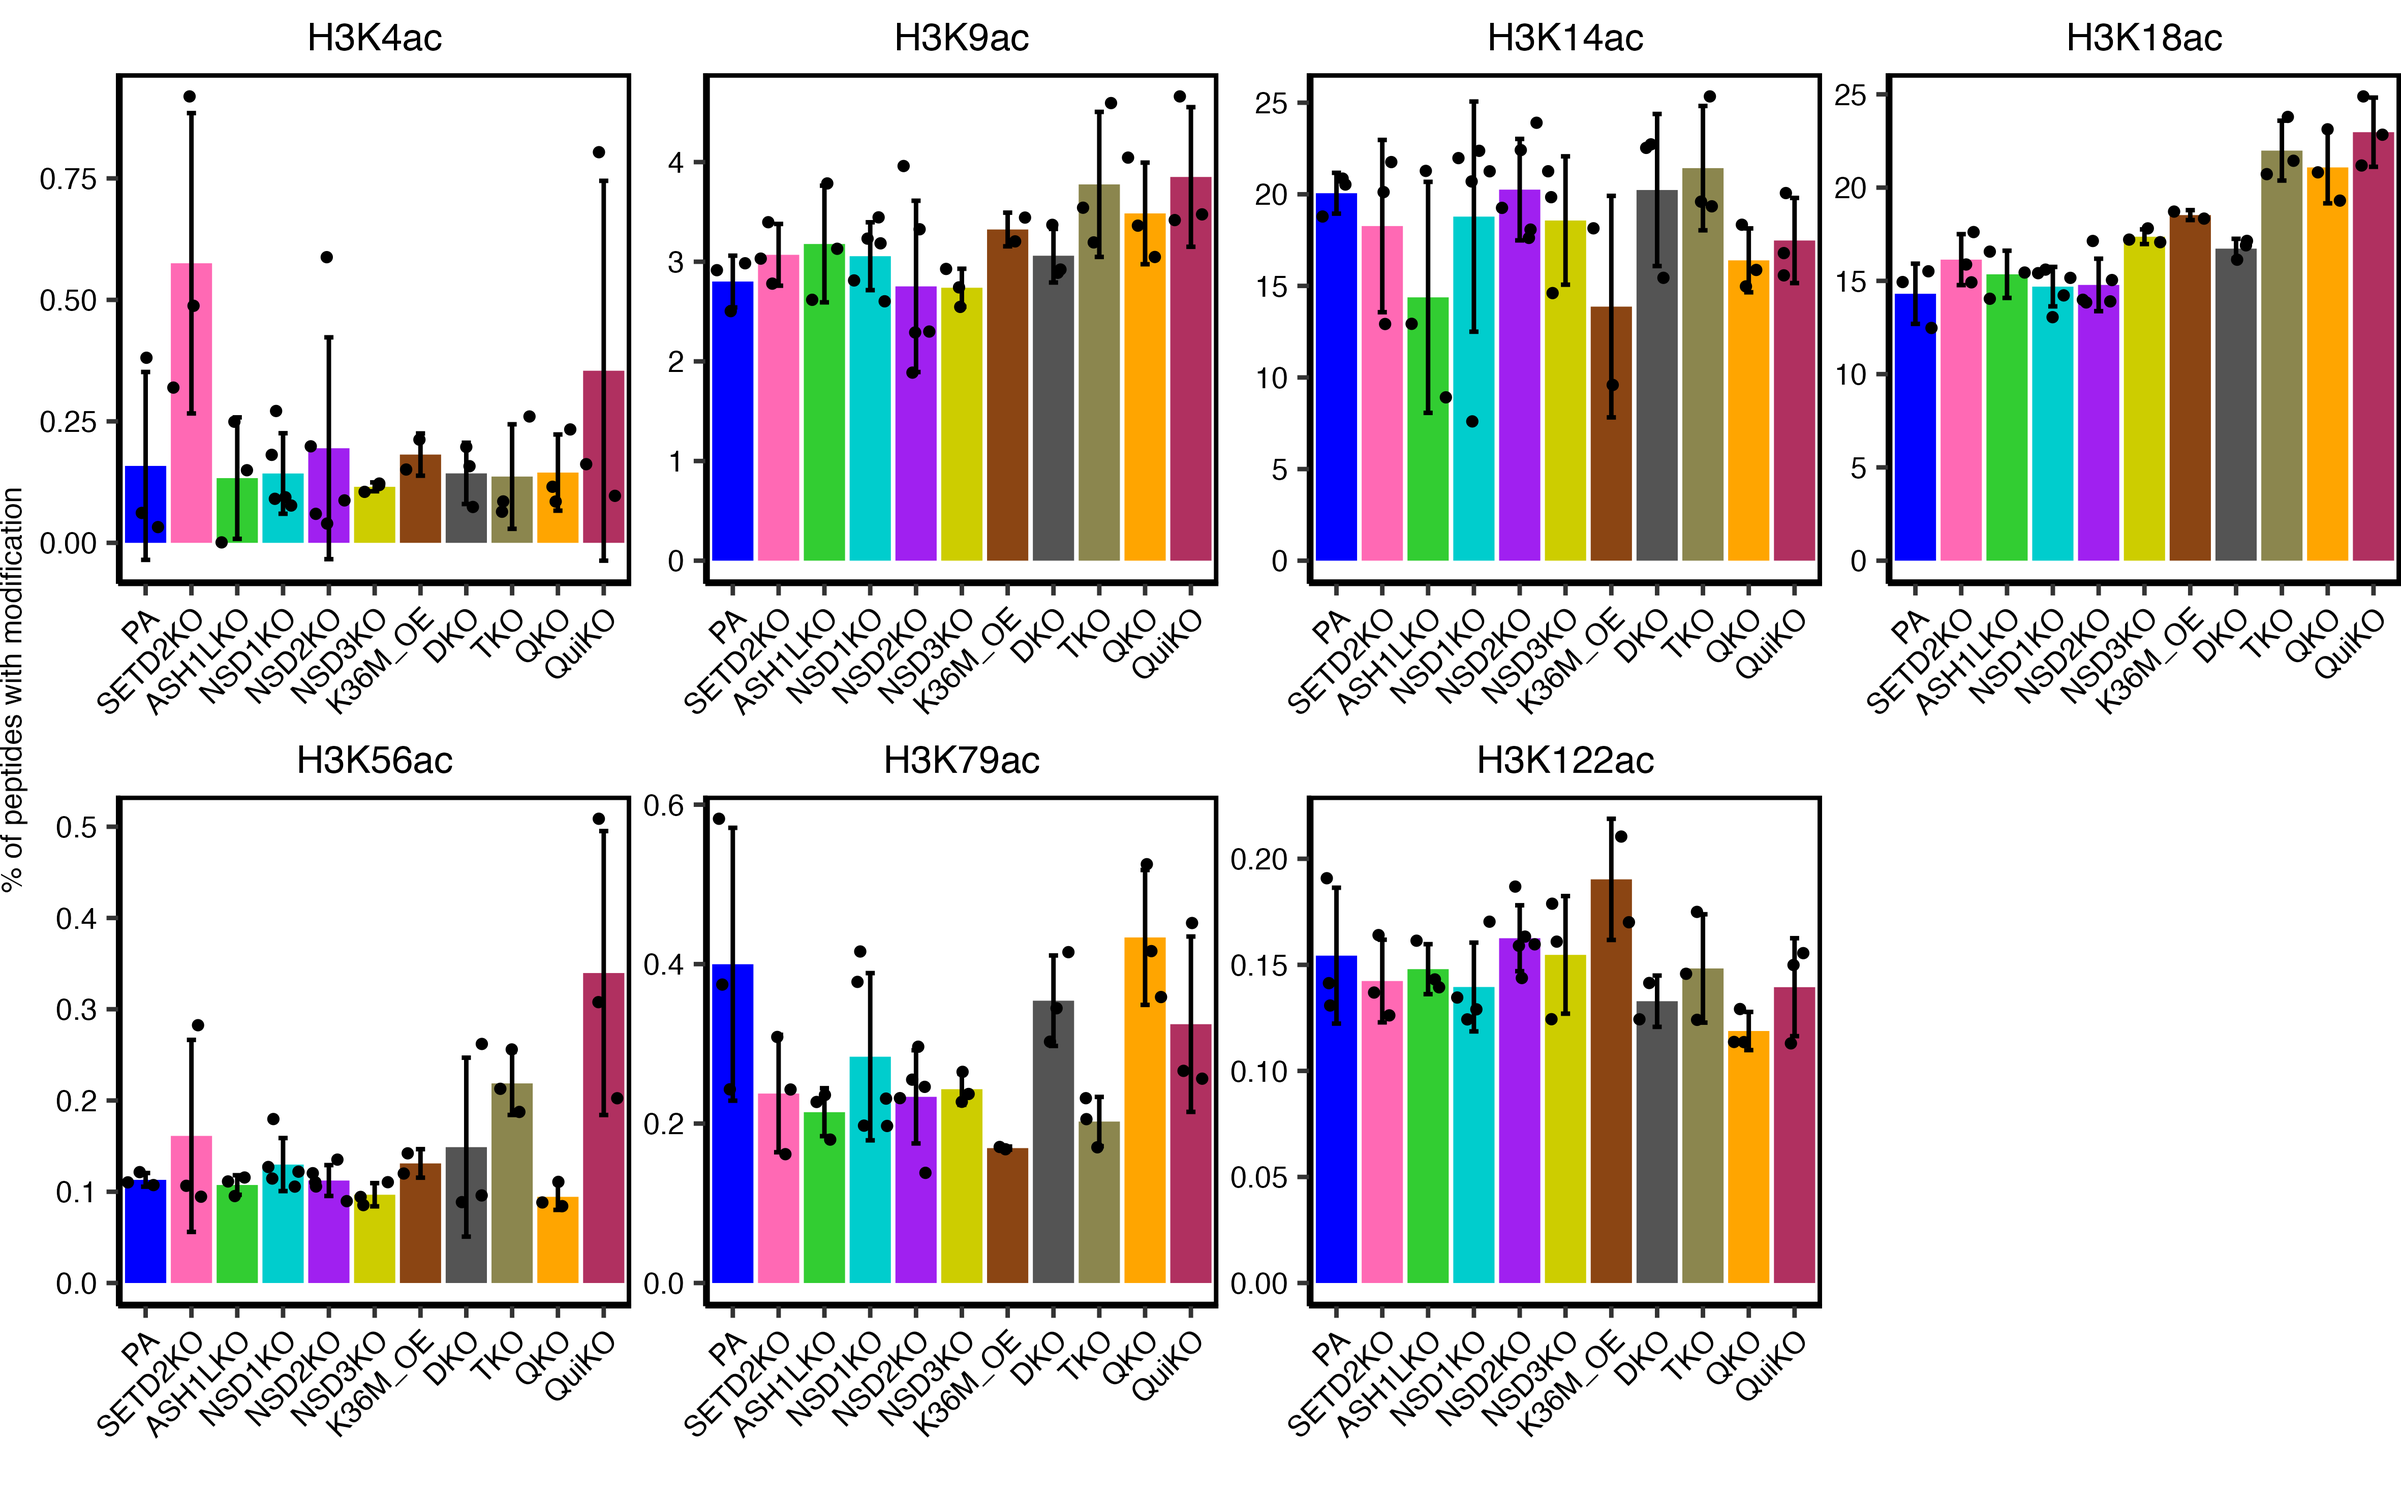
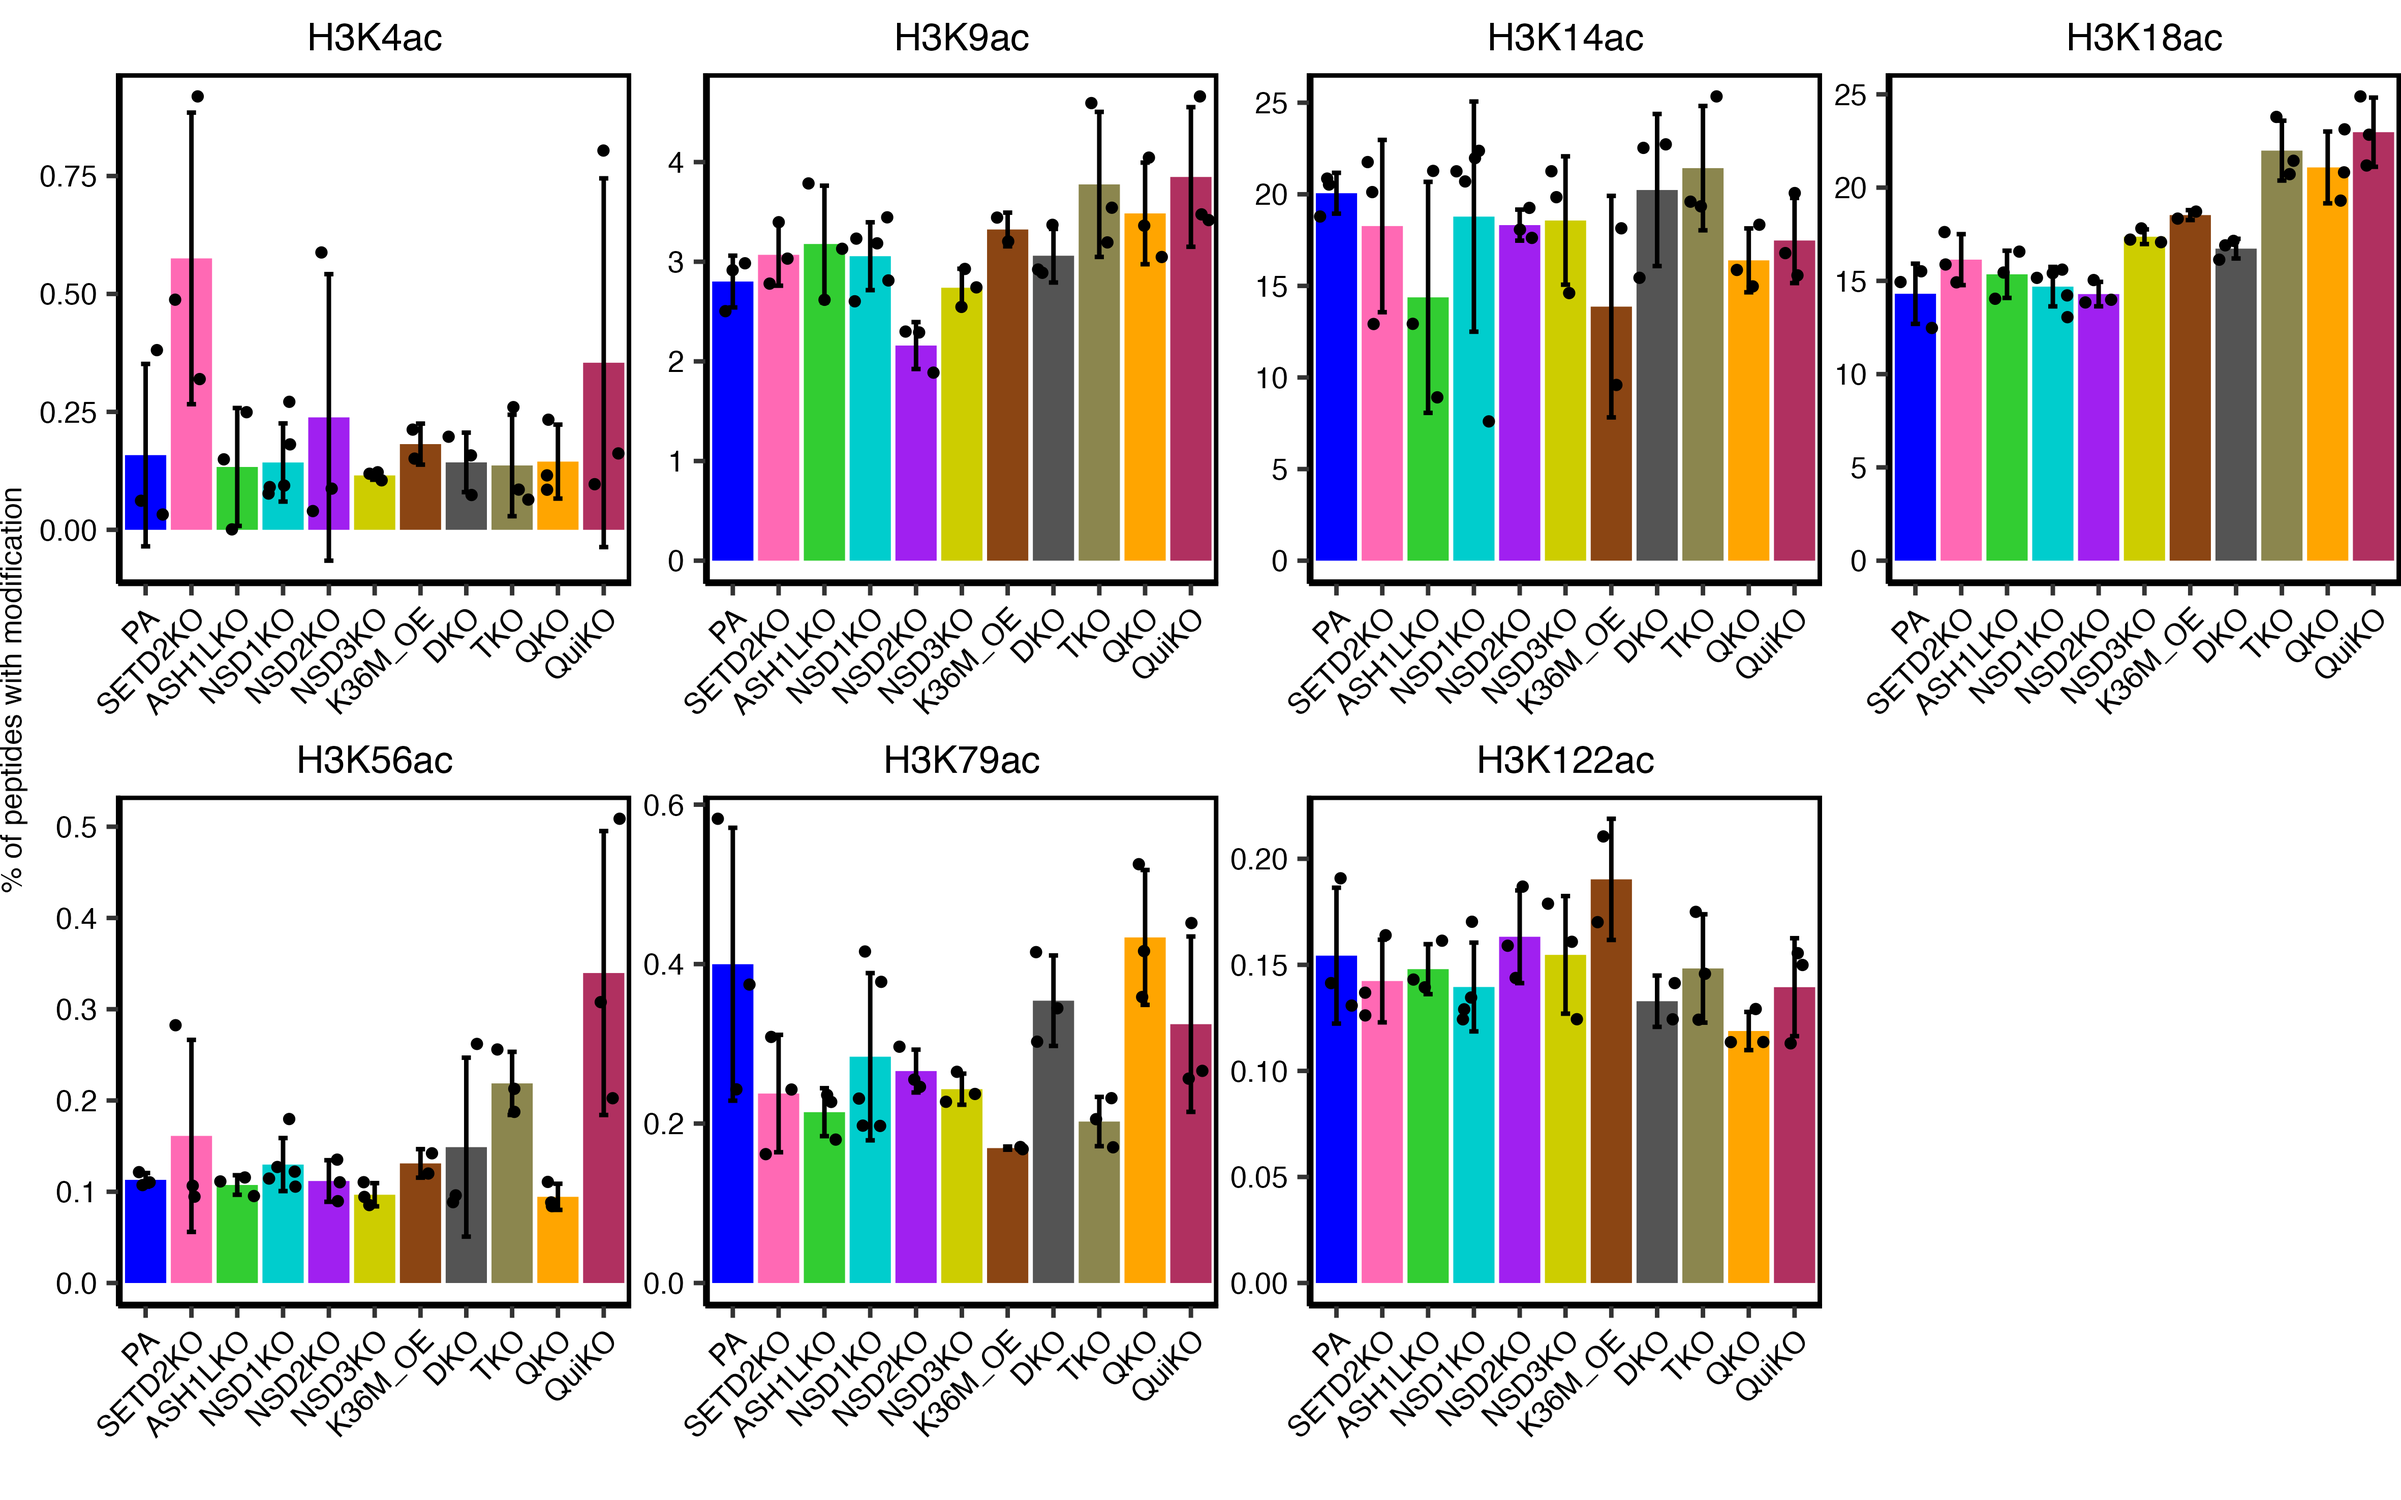
updated mass spec with 3 reps of NSD2KO and K79me mass spec results

diff --git a/docs/Analyzing_K9me3_dissolution.html b/docs/Analyzing_K9me3_dissolution.html
@@ -344,12 +344,12 @@ div.tocify {
 <ul>
 <li>
 Cluster B coincides with K9me3 regions that are highly enriched in PA
-that is lost in TKO.
+that is lost in TKO. Indeed cluster B is found at intergenic regions
+(gene-poor regions).
 </li>
 <li>
 Cluster A coincides with lower enriched K9me3 regions found in both PA
-and TKO, where we find the majority of ATAC-seq peaks are found (see IGV
-snapshot)
+and TKO, where more ATAC-seq peaks are found (see IGV snapshot).
 </li>
 </ul>
 <div id="density-plots" class="section level2">
@@ -359,6 +359,7 @@ snapshot)
 <div id="igv-snapshot" class="section level2">
 <h2>IGV snapshot</h2>
 <p><img src="pushed_images/Analyzing_K9me3_loss/IGV_snapshot/Screenshot%202023-12-06%20at%2011.30.44%E2%80%AFAM.png" width="100%" /></p>
+<hr />
 </div>
 </div>
 <div id="atacseq-peaks-within-k9me3-clusters"
@@ -402,6 +403,7 @@ K9me3 clustB domains.
 <div id="clusta" class="section level2">
 <h2>ClustA</h2>
 <p><img src="pushed_images/Analyzing_K9me3_loss/venn_diagrams/clustA/venn_diagram_clustA.png" width="50%" /></p>
+<hr />
 </div>
 </div>
 <div id="heatmaps" class="section level1 tabset">

diff --git a/docs/mass_spec.html b/docs/mass_spec.html
@@ -393,6 +393,10 @@ Following K36me2 depletion, there is a trend for increasing K27ac.
 <h1>H3K9me</h1>
 <p><img src="pushed_images/K9me3/mass_spec/global_ms.K9me.png" width="100%" /></p>
 </div>
+<div id="h3k79me" class="section level1">
+<h1>H3K79me</h1>
+<p><img src="pushed_images/K79me_mass_spec/global_ms.K79me.png" width="100%" /></p>
+</div>
 
 
 
